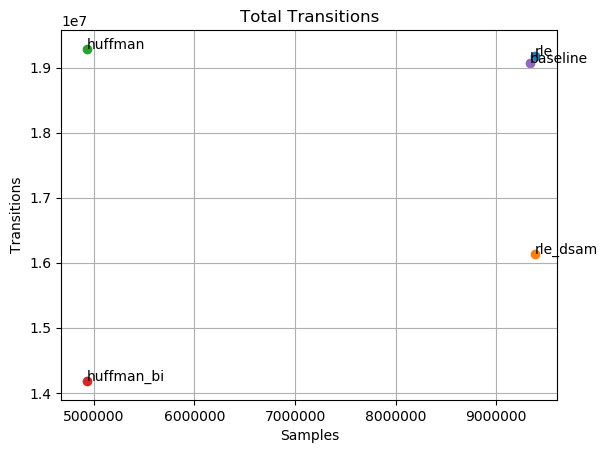
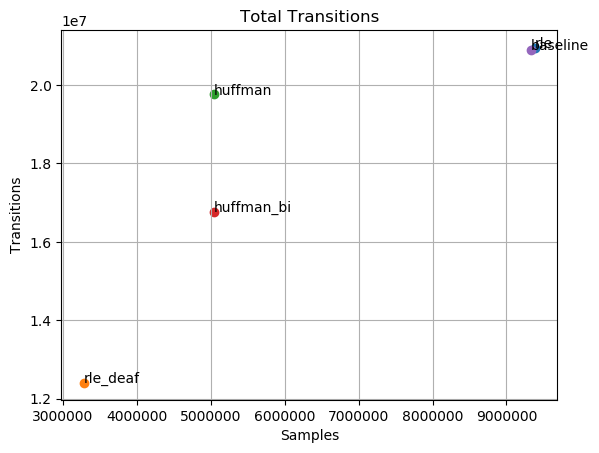
added restricted range

diff --git a/lib/graph.py b/lib/graph.py
@@ -193,34 +193,48 @@ def plot_transitions_per_samples(metric_path, output_path, encoding_scheme_filte
     if show_plot:
         plt.show()
 
-def plot_sa_cr(metric_paths, output_path, encoding_scheme="rle_dsam", show_plot=True):
+def plot_sa_cr(metric_paths, output_path, encoding_scheme_filter=[], show_plot=True):
     # load metrics for each network
     metrics = {}
     for network in metric_paths:
         print(network)
         with open(metric_paths[network],"r") as f:
             metrics[network] = json.load(f)
+    # get all encoding schemes
+    encoding_schemes = encoding_scheme_filter
+    if not encoding_schemes:
+        encoding_schemes = list(metrics[layers[0]].keys())
     # outputs
-    encoded = { network: [0,0] for network in metrics }
-    # iterate over networks
-    for network in metrics:
-        # get average switching activity
-        average_sa = _get_average_metric(metrics[network], "average_sa")
-        encoded[network][0]  = average_sa[encoding_scheme]/average_sa["baseline"]
-        # get compression ratio
-        total_samples = _get_total_samples(metrics[network])
-        encoded[network][1] = total_samples[encoding_scheme]/total_samples["baseline"]
+    encoded = { encoding_scheme: { network: [0,0] for network in metrics } for encoding_scheme in encoding_schemes }
+    # iterate over encoding schemes
+    for encoding_scheme in encoding_schemes:
+        # iterate over networks
+        for network in metrics:
+            # get average switching activity
+            average_sa = _get_average_metric(metrics[network], "average_sa")
+            #encoded[encoding_scheme][network][0] = (average_sa["baseline"] - average_sa[encoding_scheme])/average_sa["baseline"]
+            #encoded[encoding_scheme][network][0] = average_sa[encoding_scheme]/average_sa["baseline"]
+            encoded[encoding_scheme][network][0] = average_sa[encoding_scheme]
+            # get compression ratio
+            total_samples = _get_total_samples(metrics[network])
+            encoded[encoding_scheme][network][1] = total_samples["baseline"]/total_samples[encoding_scheme]
     # plot for each network
-    for network in metrics:
-        plt.scatter([encoded[network][0]],[encoded[network][1]], c='r')
-        plt.text(encoded[network][0], encoded[network][1], network )
+    for encoding_scheme in encoding_schemes:
+        x = []
+        y = []
+        for network in metrics:
+            x.append(encoded[encoding_scheme][network][0])
+            y.append(encoded[encoding_scheme][network][1])
+        plt.plot(x, y, label= encoding_scheme)
+        #plt.text(encoded[network][0], encoded[network][1], network )
     #plt.xlim([0,1])
     #plt.ylim([0,1])
     #plt.yscale("log")
     plt.title("Total Transitions")
-    plt.ylabel("Transitions")
-    plt.xlabel("Samples")
+    plt.ylabel("Compression Ratio")
+    plt.xlabel("Switching Activity")
     plt.grid(True)
+    plt.legend()
     plt.savefig(output_path,bbox_inches='tight')
     if show_plot:
         plt.show()

diff --git a/scripts/graph_featuremap.py b/scripts/graph_featuremap.py
@@ -15,24 +15,24 @@ if __name__ == "__main__":
     """
 
     # 
-    #lib.graph.plot_per_encoding_scheme("outputs/distiller_densenet121_8b/output_metrics.json", "outputs/sa_per_encoding_scheme.png",
-    lib.graph.plot_per_encoding_scheme("outputs/caffe_alexnet_8b/output_metrics.json", "outputs/sa_per_encoding_scheme.png",
-            metric="total_transitions", encoding_scheme_filter=[], show_plot=True)
+    lib.graph.plot_per_encoding_scheme("outputs/distiller_densenet121_8b/output_metrics.json", "outputs/sa_per_encoding_scheme.png",
+    #lib.graph.plot_per_encoding_scheme("outputs/caffe_alexnet_8b/output_metrics.json", "outputs/sa_per_encoding_scheme.png",
+            metric="average_sa", encoding_scheme_filter=[], show_plot=True)
 
     lib.graph.plot_transitions_per_samples("outputs/distiller_densenet121_8b/output_metrics.json","outputs/sa_per_encoding_scheme.png", 
-            encoding_scheme_filter=["rle","rle_dsam","huffman","huffman_bi","baseline"], show_plot=True)
+            encoding_scheme_filter=["rle","rle_deaf","huffman","huffman_bi","baseline"], show_plot=True)
 
     metric_paths = {
-            "alexnet"   : "outputs/distiller_alexnet_8b/output_metrics.json",
-            "mobilenet" : "outputs/distiller_mobilenet_v2_8b/output_metrics.json",
-            "densenet"  : "outputs/distiller_densenet121_8b/output_metrics.json",
-            "resnet"    : "outputs/distiller_resnet18_8b/output_metrics.json",
-            "googlenet" : "outputs/distiller_googlenet_8b/output_metrics.json",
-            "shufflenet": "outputs/distiller_shufflenet_v2_x1_0_8b/output_metrics.json",
-            "squeezenet": "outputs/distiller_squeezenet1_0_8b/output_metrics.json",
-            "vgg"       : "outputs/distiller_vgg11_8b/output_metrics.json",
+            "alexnet"   : "outputs/distiller_sym_alexnet_8b/output_metrics.json",
+            "mobilenet" : "outputs/distiller_sym_mobilenet_v2_8b/output_metrics.json",
+            "densenet"  : "outputs/distiller_sym_densenet121_8b/output_metrics.json",
+            "resnet"    : "outputs/distiller_sym_resnet18_8b/output_metrics.json",
+            "googlenet" : "outputs/distiller_sym_googlenet_8b/output_metrics.json",
+            "shufflenet": "outputs/distiller_sym_shufflenet_v2_x1_0_8b/output_metrics.json",
+            "squeezenet": "outputs/distiller_sym_squeezenet1_0_8b/output_metrics.json",
+            "vgg"       : "outputs/distiller_sym_vgg11_8b/output_metrics.json",
     }
-    lib.graph.plot_sa_cr(metric_paths, "outputs/sa_cr.png", encoding_scheme="dsam", show_plot=True)
+    lib.graph.plot_sa_cr(metric_paths, "outputs/sa_cr.png", encoding_scheme_filter=["rle","rle_deaf","huffman"], show_plot=True)
 
     """
     # plot transitions per layer

diff --git a/lib/featuremap.py b/lib/featuremap.py
@@ -24,7 +24,7 @@ def get_dimensions(filepath):
 def load_layer(filepath, layer):
     return dd.io.load(filepath)[layer]
 
-def to_stream(filepath, layer, offset=0, limit=None, bitwidth=8, single_batch=False):
+def to_stream(filepath, layer, restricted_range=False, limit=None, bitwidth=8, single_batch=False):
     # convert each feature map into stream
     featuremap = load_layer(filepath,layer)
     # re-order dimensions
@@ -36,9 +36,9 @@ def to_stream(filepath, layer, offset=0, limit=None, bitwidth=8, single_batch=Fa
     # select only portition of the featuremap
     if limit != None:
         featuremap = featuremap[:limit]
-    # apply offset 
-    featuremap = featuremap.astype(int)
-    featuremap = np.subtract(featuremap, offset)
+    # apply restricted range
+    if restricted_range:
+        featuremap = np.clip(featuremap,((2**(bitwidth-1))-1),-((2**(bitwidth-1))-1))    
     # return stream
     return stream(featuremap, bitwidth=bitwidth)
 
